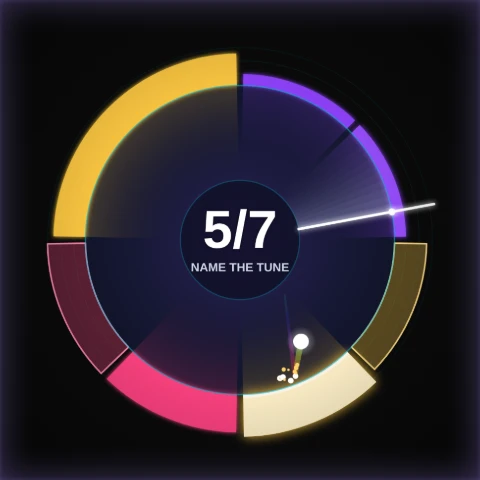
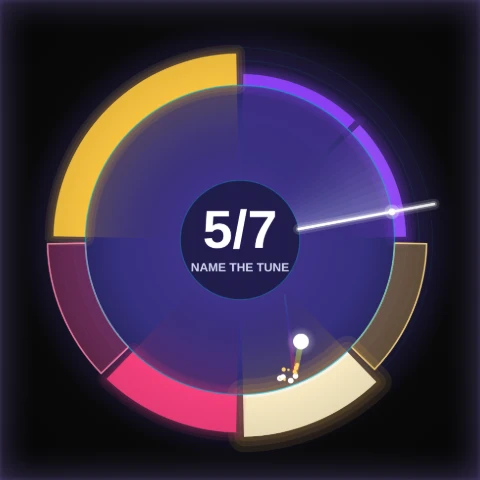
New modes lane (C1): Song Ring glows round its ring as the notes are found, and draws without a blur
Looked at again in the rendered clip, the square around the ring was more than half dark, and
every lit tile and the playhead were drawn with a shadowBlur, a blur pass each on every frame.

- A glow round the ring and a brighter floor, both stronger with every note found, so the
  picture builds in brightness too. It is gone at the square's edge: a glow cut off there showed
  the square as a box in the exported frame. Measured on the default clip's frames, the dark
  share of the centred square falls from 0.52 to 0.39 (0.43 at the start, 0.30 at the chord).
- The glows of the lit tiles and of the playhead are wide soft strokes now, no blur. The floor's,
  the glow's and the wedges' gradients, the colours and the sparks' fills are kept between
  frames (a gradient per count of lit notes, per hue and pulse level), so a frame allocates
  nothing. On this machine's software canvas at a phone's viewport the page holds 60 fps in Song
  Ring; with the CPU throttled four times it holds 34 fps with one ball and 29 with six, against
  29 in Spiral Glass.
- The card picture again, with the new look, and the smoke block's measured time (5.2 s).

Draw only: the mode file is untouched, its fingerprint and its runs are the same.

Claude-Session: https://claude.ai/code/session_01NrKo2mU7NX58bzppBNHo2x

diff --git a/src/components/simulator/songRingRenderer.ts b/src/components/simulator/songRingRenderer.ts
@@ -3,13 +3,14 @@ import type { LiveHud } from "@/lib/watermark/liveLayout";
 
 /**
  * Canvas drawing of Song Ring (feature song-ring, lib/physics/modes/songRing.ts). The canvas calls, per frame:
- * `drawWorld()` under the balls (the faint staff circles, the note tiles – bars standing on the outside of the wall, as
+ * `drawWorld()` under the balls (the glow around the ring, its floor, the faint staff circles, the note tiles – bars standing on the outside of the wall, as
  * tall and as warm as their pitch, dim while dark and glowing once lit, swelling when the playhead plays them –, the wall,
  * the hub, the ripples of the finale's notes and the playhead: a bright spoke with a sweep of light behind it), `drawEffects()` over
  * the balls (the sparks and the chord's flash) and `drawOverlay()` in screen space (the count of the notes lit and the
  * line under it, in the hub; gone once the chord falls and the canvas names the tune). Everything animates on the mode's
  * clock (`view.timeMs`) and from its state, so a pause freezes it, a recording replays it and the fast export draws the
- * same frame; nothing is allocated per frame (colours and strings cached). The end's words – the tune's name, only then –
+ * same frame; nothing is allocated per frame (colours, strings and gradients are kept) and nothing is blurred (a
+ * `shadowBlur` draw is a blur pass each: the glows are wide soft strokes). The end's words – the tune's name, only then –
  * are the canvas' shared end banner's (endBanner.ts), which fits a long name of another language to the square.
  */
 
@@ -49,8 +50,13 @@ const TWO_PI = Math.PI * 2;
 export const TILE_GAP = 0.02;
 export const TAIL_SLICES = 14;
 export const TAIL_TURN = 0.12;
+/** A lit tile's glow: the widths (world px at the tuned side) of its three strokes, and how much each grows while the tile pops or sounds. */
+const HALO_WIDTHS = [18, 11, 5] as const;
+const HALO_SWELL = [16, 10, 5] as const;
 /** The share of a slot of the phrase a lit tile's nod lasts. */
 export const BEAT_NOD = 0.4;
+/** How far from the centre the glow around the ring reaches (share of the square's side: to its edge, where it is gone). */
+export const GLOW_REACH = 0.5;
 /** How long the chord's flash and a finale note's ripple last (ms). */
 export const CHORD_FLASH_MS = 650;
 export const RIPPLE_MS = 620;
@@ -68,21 +74,23 @@ export function tileHeight(view: Pick<SongRingView, "layout" | "tiles">, tile: n
   return L.bandMin + (L.bandMax - L.bandMin) * view.tiles.level[tile];
 }
 
-/** A tile's fill while dark and once lit, and its outline (cached per hue). */
-const darkFill = new Map<number, string>();
-const litFill = new Map<number, string>();
-const edgeStroke = new Map<number, string>();
-const wedgeFill = new Map<number, string>();
-function colours(hue: number): { dark: string; lit: string; edge: string } {
+/** A tile's fill while dark and once lit, its outline and its glow (one object per hue, kept). */
+interface TileColours {
+  dark: string;
+  lit: string;
+  edge: string;
+  halo: string;
+}
+const tileColours = new Map<number, TileColours>();
+const sparkFill = new Map<number, string>();
+function colours(hue: number): TileColours {
   const key = Math.round(hue);
-  let dark = darkFill.get(key);
-  if (dark === undefined) {
-    dark = `hsla(${key}, 78%, 60%, 0.36)`;
-    darkFill.set(key, dark);
-    litFill.set(key, `hsl(${key}, 96%, 62%)`);
-    edgeStroke.set(key, `hsla(${key}, 96%, 76%, 0.95)`);
+  let c = tileColours.get(key);
+  if (c === undefined) {
+    c = { dark: `hsla(${key}, 78%, 60%, 0.36)`, lit: `hsl(${key}, 96%, 62%)`, edge: `hsla(${key}, 96%, 76%, 0.95)`, halo: `hsla(${key}, 96%, 62%, 0.1)` };
+    tileColours.set(key, c);
   }
-  return { dark, lit: litFill.get(key)!, edge: edgeStroke.get(key)! };
+  return c;
 }
 
 /** The seconds from the start to the last tile, for the banner. */
@@ -97,6 +105,32 @@ export class SongRingLayer {
   private captionScale = 1;
   /** The hub's box as the last `drawOverlay()` drew it (w 0: nothing drawn), for the live watermark. */
   readonly hudBox = { x: 0, y: 0, w: 0, h: 0 };
+  /**
+   * The gradients kept between frames: the glow's and the floor's per count of lit notes, a lit tile's wedge per hue and
+   * pulse level, the chord's halo. A gradient belongs to its context and holds its geometry, so they are dropped when either changes.
+   */
+  private gradCtx: CanvasRenderingContext2D | null = null;
+  private readonly gradAt = [NaN, NaN, NaN, NaN, NaN];
+  private readonly glows = new Map<number, CanvasGradient>();
+  private readonly floors = new Map<number, CanvasGradient>();
+  private readonly beams = new Map<number, CanvasGradient>();
+  private halo: CanvasGradient | null = null;
+
+  /** Drops the kept gradients when the context or the ring's geometry is another than they were built for. */
+  private keepGradients(ctx: CanvasRenderingContext2D, cx: number, cy: number, radius: number, hub: number, band: number) {
+    const at = this.gradAt;
+    if (ctx === this.gradCtx && at[0] === cx && at[1] === cy && at[2] === radius && at[3] === hub && at[4] === band) return;
+    this.gradCtx = ctx;
+    at[0] = cx;
+    at[1] = cy;
+    at[2] = radius;
+    at[3] = hub;
+    at[4] = band;
+    this.glows.clear();
+    this.floors.clear();
+    this.beams.clear();
+    this.halo = null;
+  }
 
   /** Under the balls: the staff, the tiles, the wall, the hub, the ripples and the playhead. */
   drawWorld(ctx: CanvasRenderingContext2D, view: SongRingView, opts: SongRingRenderOptions) {
@@ -111,11 +145,31 @@ export class SongRingLayer {
     ctx.globalAlpha = 1;
     ctx.lineCap = "butt";
     ctx.lineJoin = "round";
-    // The floor of the ring: a soft glow that warms as the notes are found.
-    const share = view.total > 0 ? view.lit / view.total : 0;
-    const floor = ctx.createRadialGradient(L.cx, L.cy, 0, L.cx, L.cy, R);
-    floor.addColorStop(0, `rgba(124, 92, 255, ${(0.2 + 0.14 * share).toFixed(3)})`);
-    floor.addColorStop(1, `rgba(56, 80, 220, ${(0.08 + 0.1 * share).toFixed(3)})`);
+    this.keepGradients(ctx, L.cx, L.cy, R, L.hub, L.bandMax);
+    // The glow around the ring, stronger with every note found (a gradient per count, kept). It is gone at the square's edge:
+    // a glow cut off there would show the square as a box in the exported frame.
+    let glow = this.glows.get(view.lit);
+    if (glow === undefined) {
+      const lit = view.total > 0 ? view.lit / view.total : 0;
+      glow = ctx.createRadialGradient(L.cx, L.cy, 0.8 * R, L.cx, L.cy, GLOW_REACH * L.side);
+      glow.addColorStop(0, `rgba(116, 88, 255, ${(0.2 + 0.26 * lit).toFixed(3)})`);
+      glow.addColorStop(0.6, `rgba(116, 88, 255, ${(0.1 + 0.14 * lit).toFixed(3)})`);
+      glow.addColorStop(1, "rgba(116, 88, 255, 0)");
+      this.glows.set(view.lit, glow);
+    }
+    ctx.fillStyle = glow;
+    ctx.beginPath();
+    ctx.arc(L.cx, L.cy, GLOW_REACH * L.side, 0, TWO_PI);
+    ctx.fill();
+    // The floor of the ring: a soft glow that warms as the notes are found (a gradient per count of lit notes, kept).
+    let floor = this.floors.get(view.lit);
+    if (floor === undefined) {
+      const share = view.total > 0 ? view.lit / view.total : 0;
+      floor = ctx.createRadialGradient(L.cx, L.cy, 0, L.cx, L.cy, R);
+      floor.addColorStop(0, `rgba(124, 92, 255, ${(0.2 + 0.14 * share).toFixed(3)})`);
+      floor.addColorStop(1, `rgba(56, 80, 220, ${(0.08 + 0.1 * share).toFixed(3)})`);
+      this.floors.set(view.lit, floor);
+    }
     ctx.fillStyle = floor;
     ctx.beginPath();
     ctx.arc(L.cx, L.cy, R, 0, TWO_PI);
@@ -135,15 +189,15 @@ export class SongRingLayer {
       const a1 = angleOf(T.end[i]) - TILE_GAP;
       if (!(a1 > a0)) continue;
       const sung = fade(now - view.playMs[i], NOTE_PULSE_MS);
+      // (a gradient per hue and one of eight levels of the note's pulse, kept: none is built in a frame that has them)
       const key = Math.round(tileHue(T.level[i])) * 8 + Math.round(7 * sung);
-      let wedge = wedgeFill.get(key);
-      if (wedge === undefined) {
-        wedge = `hsla(${Math.round(tileHue(T.level[i]))}, 96%, 62%, ${(0.2 + 0.3 * (Math.round(7 * sung) / 7)).toFixed(3)})`;
-        wedgeFill.set(key, wedge);
+      let beam = this.beams.get(key);
+      if (beam === undefined) {
+        beam = ctx.createRadialGradient(L.cx, L.cy, 3 * L.hub, L.cx, L.cy, R);
+        beam.addColorStop(0, "rgba(0, 0, 0, 0)");
+        beam.addColorStop(1, `hsla(${Math.round(tileHue(T.level[i]))}, 96%, 62%, ${(0.2 + 0.3 * (Math.round(7 * sung) / 7)).toFixed(3)})`);
+        this.beams.set(key, beam);
       }
-      const beam = ctx.createRadialGradient(L.cx, L.cy, 3 * L.hub, L.cx, L.cy, R);
-      beam.addColorStop(0, "rgba(0, 0, 0, 0)");
-      beam.addColorStop(1, wedge);
       ctx.fillStyle = beam;
       ctx.beginPath();
       ctx.moveTo(L.cx, L.cy);
@@ -171,13 +225,18 @@ export class SongRingLayer {
       ctx.arc(L.cx, L.cy, R, a1, a0, true);
       ctx.closePath();
       if (lit) {
-        ctx.fillStyle = c.lit;
         if (opts.showWallGlow) {
-          ctx.shadowColor = c.lit;
-          ctx.shadowBlur = (10 + 16 * Math.max(pop, sung)) * k;
+          // (its glow: three faint strokes of its colour round the bar, each narrower, so the light falls off away from it –
+          // no blur, which costs a pass per tile every frame)
+          const swell = Math.max(pop, sung);
+          ctx.strokeStyle = c.halo;
+          for (let ring = 0; ring < 3; ring++) {
+            ctx.lineWidth = (HALO_WIDTHS[ring] + HALO_SWELL[ring] * swell) * k;
+            ctx.stroke();
+          }
         }
+        ctx.fillStyle = c.lit;
         ctx.fill();
-        ctx.shadowBlur = 0;
         const white = Math.max(0.85 * pop, 0.7 * sung);
         if (white > 0) {
           ctx.fillStyle = `rgba(255, 255, 255, ${white.toFixed(3)})`;
@@ -247,22 +306,32 @@ export class SongRingLayer {
       const a = angleOf(view.head);
       const cos = Math.cos(a);
       const sin = Math.sin(a);
-      ctx.strokeStyle = "#ffffff";
-      ctx.lineWidth = 2.6 * k;
-      if (opts.showWallGlow) {
-        ctx.shadowColor = "#ffffff";
-        ctx.shadowBlur = 12 * k;
-      }
       ctx.beginPath();
       ctx.moveTo(L.cx + cos * hubR, L.cy + sin * hubR);
       ctx.lineTo(L.cx + cos * reach, L.cy + sin * reach);
+      if (opts.showWallGlow) {
+        // (its glow: the same line wider and faint, twice – no blur)
+        ctx.strokeStyle = "rgba(255, 255, 255, 0.14)";
+        ctx.lineWidth = 11 * k;
+        ctx.stroke();
+        ctx.strokeStyle = "rgba(255, 255, 255, 0.28)";
+        ctx.lineWidth = 6 * k;
+        ctx.stroke();
+      }
+      ctx.strokeStyle = "#ffffff";
+      ctx.lineWidth = 2.6 * k;
       ctx.stroke();
-      // (its head: a bright bead riding the wall)
+      // (its head: a bright bead riding the wall, in a faint ring of light)
+      if (opts.showWallGlow) {
+        ctx.fillStyle = "rgba(255, 255, 255, 0.28)";
+        ctx.beginPath();
+        ctx.arc(L.cx + cos * R, L.cy + sin * R, 7.5 * k, 0, TWO_PI);
+        ctx.fill();
+      }
       ctx.fillStyle = "#ffffff";
       ctx.beginPath();
       ctx.arc(L.cx + cos * R, L.cy + sin * R, 3.6 * k, 0, TWO_PI);
       ctx.fill();
-      ctx.shadowBlur = 0;
     }
     ctx.restore();
   }
@@ -281,24 +350,36 @@ export class SongRingLayer {
     for (let i = 0; i < view.sparkCount; i++) {
       const life = view.sparkMaxLife[i] > 0 ? view.sparkLife[i] / view.sparkMaxLife[i] : 0;
       const hue = view.sparkHue[i];
-      const a = Math.max(0, Math.min(1, 1.5 * life)).toFixed(3);
-      ctx.fillStyle = hue < 0 ? `rgba(255, 255, 255, ${a})` : `hsla(${Math.round(hue)}, 96%, 70%, ${a})`;
+      // (its colour at one of sixteen levels of its fade, kept per hue)
+      const level = Math.round(15 * Math.max(0, Math.min(1, 1.5 * life)));
+      const key = (hue < 0 ? 400 : Math.round(hue)) * 16 + level;
+      let fill = sparkFill.get(key);
+      if (fill === undefined) {
+        fill = hue < 0 ? `rgba(255, 255, 255, ${(level / 15).toFixed(3)})` : `hsla(${Math.round(hue)}, 96%, 70%, ${(level / 15).toFixed(3)})`;
+        sparkFill.set(key, fill);
+      }
+      ctx.fillStyle = fill;
       ctx.beginPath();
       ctx.arc(view.sparkX[i], view.sparkY[i], view.sparkSize[i] * (0.5 + 0.5 * life), 0, TWO_PI);
       ctx.fill();
     }
     const flash = Math.max(fade(view.timeMs - view.chordMs, CHORD_FLASH_MS), 0.6 * fade(view.timeMs - view.completeMs, 0.5 * REWIND_MS));
     if (flash > 0 && (view.chordMs >= 0 || view.completeMs >= 0)) {
-      // (a halo round the wall: the middle stays clear for the count and the tune's name)
-      const g = ctx.createRadialGradient(L.cx, L.cy, 0, L.cx, L.cy, L.radius + L.bandMax);
-      g.addColorStop(0, "rgba(255, 255, 255, 0)");
-      g.addColorStop(0.5, "rgba(255, 255, 255, 0)");
-      g.addColorStop(0.86, `rgba(255, 255, 255, ${(0.6 * flash).toFixed(3)})`);
-      g.addColorStop(1, "rgba(255, 255, 255, 0)");
-      ctx.fillStyle = g;
+      // (a halo round the wall: the middle stays clear for the count and the tune's name; one gradient, kept, faded by the alpha)
+      this.keepGradients(ctx, L.cx, L.cy, L.radius, L.hub, L.bandMax);
+      if (!this.halo) {
+        this.halo = ctx.createRadialGradient(L.cx, L.cy, 0, L.cx, L.cy, L.radius + L.bandMax);
+        this.halo.addColorStop(0, "rgba(255, 255, 255, 0)");
+        this.halo.addColorStop(0.5, "rgba(255, 255, 255, 0)");
+        this.halo.addColorStop(0.86, "rgba(255, 255, 255, 0.6)");
+        this.halo.addColorStop(1, "rgba(255, 255, 255, 0)");
+      }
+      ctx.globalAlpha = flash;
+      ctx.fillStyle = this.halo;
       ctx.beginPath();
       ctx.arc(L.cx, L.cy, L.radius + L.bandMax, 0, TWO_PI);
       ctx.fill();
+      ctx.globalAlpha = 1;
     }
     ctx.restore();
   }
@@ -330,9 +411,8 @@ export class SongRingLayer {
     ctx.textAlign = "center";
     ctx.textBaseline = "middle";
     ctx.font = `800 ${fs.toFixed(1)}px sans-serif`;
+    // (white on the hub's dark disc: it needs no shadow, and a blurred one would cost a pass every frame)
     ctx.fillStyle = "#ffffff";
-    ctx.shadowColor = "rgba(0, 0, 0, 0.55)";
-    ctx.shadowBlur = 6;
     ctx.fillText(this.countText, L.cx, L.cy - 0.016 * L.side);
     const cfs = 0.027 * L.side;
     ctx.font = `700 ${cfs.toFixed(1)}px sans-serif`;

diff --git a/tests/songRing.test.ts b/tests/songRing.test.ts
@@ -8,6 +8,7 @@ import {
   LIGHT_DING_OCTAVES,
   LIGHT_TICK_HZ,
   MAX_SPARKS,
+  NOTE_PULSE_MS,
   PLAN_LAST_AT,
   PLAN_WAIT,
   REWIND_MS,
@@ -791,9 +792,22 @@ describe("the renderer", () => {
     layer.drawWorld(ctx, v, opts);
     expect(calls[0]).toBe("save(0)");
     expect(calls.at(-1)).toBe("restore(0)");
-    // the floor, every tile and the hub are filled; the staff, every dark tile's edge, the wall and the playhead stroked
-    expect(calls.filter((c) => c === "fill(0)").length).toBeGreaterThanOrEqual(v.total + 2);
+    // the glow, the floor, every tile and the hub are filled; the staff, every dark tile's edge, the wall and the playhead stroked
+    expect(calls.filter((c) => c === "fill(0)").length).toBeGreaterThanOrEqual(v.total + 3);
     expect(calls.filter((c) => c === "stroke(0)").length).toBeGreaterThanOrEqual(3 + (v.total - v.lit) + 2);
+    // the gradients are built once and kept – the glow's, the floor's, and a wedge's per hue and pulse level of the lit tiles –: a
+    // second frame of the same state on the same context builds none
+    const wedges = new Set<number>();
+    for (let i = 0; i < v.total; i++) if (v.litMs[i] >= 0) wedges.add(Math.round(tileHue(v.tiles.level[i])) * 8 + Math.round(7 * fade(v.timeMs - v.playMs[i], NOTE_PULSE_MS)));
+    expect(wedges.size).toBeGreaterThan(0);
+    expect(calls.filter((c) => c === "createRadialGradient(6)").length).toBe(2 + wedges.size);
+    calls.length = 0;
+    layer.drawWorld(ctx, v, opts);
+    expect(calls.filter((c) => c === "createRadialGradient(6)").length).toBe(0);
+    // …and another ring (a resize) drops them
+    calls.length = 0;
+    layer.drawWorld(ctx, { ...v, layout: { ...v.layout!, radius: v.layout!.radius + 1 } }, opts);
+    expect(calls.filter((c) => c === "createRadialGradient(6)").length).toBe(2 + wedges.size);
     calls.length = 0;
     layer.drawEffects(ctx, v);
     expect(calls[0]).toBe("save(0)");

diff --git a/README.md b/README.md
@@ -1664,7 +1664,7 @@ Feature song-ring: a rhythm-family mode without engine rings ("can you name the 
 
 - **Physics** – `src/lib/physics/modes/songRing.ts`: the tunes are data (`SONG_RING_TUNES`: MIDI pitch and length in slots per note, the finale's bass and the chord's root; five public-domain phrases of seven to nine notes; `songRingTuneOf()` resolves "surprise" with the seed's first draw). `buildSongRingLayout()` lays the ring out in the centred square (the wall at `RING_AT` × the side, the tiles' bands `BAND_MIN`–`BAND_MAX`, the ball's radius the page's Ball Size at the world's scale, `TUNED_SIDE` 450), `buildSongRingTiles()` turns a tune into tiles (start and end as shares of a lap, the pitch level 0–1), `turnOf()` / `angleOf()` map canvas angles to shares of a lap clockwise from the top and `tileAt()` finds the tile. `onBallStep()` keeps every ball weightless and at the mode's speed, and where its flight crossed the wall puts it back on the exact hit point, lights the tile there and sends it off within `SCATTER` of the inward normal (`ctx.random()`), flying the rest of the sub-step on the new course, so a hit's time does not depend on the sub-step it fell in and the same seed plays the same run at 450 × 450, 800 × 450 and the finder's 800 × 600. **The help**: a plan in hits (`hitBudget()`, `earliestHit()`, `latestHit()`: note j of N is due inside a window); with probability `help` a rebound that would light a note before its window lands on the lit tile beside it (`hold()`, a miss of more than the ball's own size) and one past its window aims for the dark tile nearest its own course (`seek()`, via `aimDelta()`; when none is in reach, across from one). `onPostUpdate()` moves the playhead (`head`), plays every lit tile whose start it crossed (`playCrossed()`), runs the finale (`complete()` at the last tile → `REWIND_MS` → the phrase whole → the chord → `END_HOLD_MS`) and the sparks (a pool of `MAX_SPARKS`), and ends a run at `TIMEOUT_MS`. `stepSpeedBound()` asks the engine for more sub-steps past a ball radius a sub-step.
 - **Sound** – all `melody: false`: a hit is a woodblock tick (`orb: "click"`, `TICK_HZ`, at most one every `TICK_COOLDOWN_MS`; `LIGHT_TICK_HZ` on the hit that lights a tile, with a ding on the tune's root `LIGHT_DING_OCTAVES` octaves up, the same for every tile), the playhead's note a loop pluck at the tile's pitch, the finale an impact and a riser, then every note bright with a chime an octave up, a kick every `KICK_EVERY_SLOTS` slots, the tune's bass, the groove bed's pad and the completion chord on the tune's root (minor for a minor tune). Every pitched event carries `loopExact` (`SoundEvent`, `LoopPlayOptions.exact`): the tone generator plays it at its pitch as given, never snapped to the Sound section's scale, which would turn a fixed tune into another one. The default run plays about 3.7 sound events a second.
-- **UI** – `components/simulator/songRingRenderer.ts` (`SongRingLayer`): under the balls the floor's glow, the staff circles, a wedge of light from every lit tile, the tiles (`tileHeight()`, `tileHue()`: dim with a bright edge while dark, glowing once lit, swelling when lit, when sung and on the beat), the wall, the finale's ripples, the hub and the playhead with its sweep; over the balls the sparks and the chord's halo; in screen space the count of the notes lit with the caption under it; from the chord on the canvas' shared end banner names the tune (fitted to the square, as a name's length follows its language) with the run's line, or says TIME'S UP. The canvas mirrors `data-song-*` (lit, total, hits, notes, nudges, balls, phase, complete, chord, timeout, finished, finished ms and the tune once named) through `SongRingDataset`. The panel block is `sections/SongRingSection.tsx` (the tune, lap time, ball speed, balls, help, live notes and a run summary); a change restarts the run and drops a found seed. Settings `srSong` (URL `srt`), `srLapSec` (`srl`), `srSpeed` (`srv`), `srBalls` (`srb`, memory ceiling `MEMORY_CEILINGS.srBalls`), `srHelp` (`srh`), `srLive` (`srn`), validated by `resolveSongRingFields()`; the canvas words and the tunes' names live in the `SongRing` namespace of `messages/*.json`.
+- **UI** – `components/simulator/songRingRenderer.ts` (`SongRingLayer`): under the balls the glow around the ring and its floor (both stronger with every note found), the staff circles, a wedge of light from every lit tile, the tiles (`tileHeight()`, `tileHue()`: dim with a bright edge while dark, glowing once lit, swelling when lit, when sung and on the beat), the wall, the finale's ripples, the hub and the playhead with its sweep; over the balls the sparks and the chord's halo. Nothing is blurred per frame (the glows are wide soft strokes, as a `shadowBlur` draw is a blur pass each) and the gradients, colours and strings are kept between frames; in screen space the count of the notes lit with the caption under it; from the chord on the canvas' shared end banner names the tune (fitted to the square, as a name's length follows its language) with the run's line, or says TIME'S UP. The canvas mirrors `data-song-*` (lit, total, hits, notes, nudges, balls, phase, complete, chord, timeout, finished, finished ms and the tune once named) through `SongRingDataset`. The panel block is `sections/SongRingSection.tsx` (the tune, lap time, ball speed, balls, help, live notes and a run summary); a change restarts the run and drops a found seed. Settings `srSong` (URL `srt`), `srLapSec` (`srl`), `srSpeed` (`srv`), `srBalls` (`srb`, memory ceiling `MEMORY_CEILINGS.srBalls`), `srHelp` (`srh`), `srLive` (`srn`), validated by `resolveSongRingFields()`; the canvas words and the tunes' names live in the `SongRing` namespace of `messages/*.json`.
 - **Tests** – `tests/songRing.test.ts`: settings / URL / presets and the registration, the tunes note for note, the geometry (the layout in three world sizes, the tiles, angles and turns, the aimed rebound), the plan in hits, the mode in the engine (the ball inside the wall at the mode's speed whatever the gravity, a tile lit by its first hit, the ticks, the playhead's notes in the tune's order, live notes, the finale's sounds and times, the help against pure chance over 40 seeds, a crowd's tick budget, the timeout, determinism and a restart, the same run in every world size, a resize), the finder building the mode and the renderer; `tests/extras.test.ts` holds the fingerprint of the default run. The smoke test (block `song-ring`) checks the URL ↔ panel round trip and the search box, a fast run at 8× to the chord, and that the canvas names the tune only then. The card image is `public/modes/songRing.webp` (`MODES=songRing npm run previews`).
 
 ### Mode Lab
